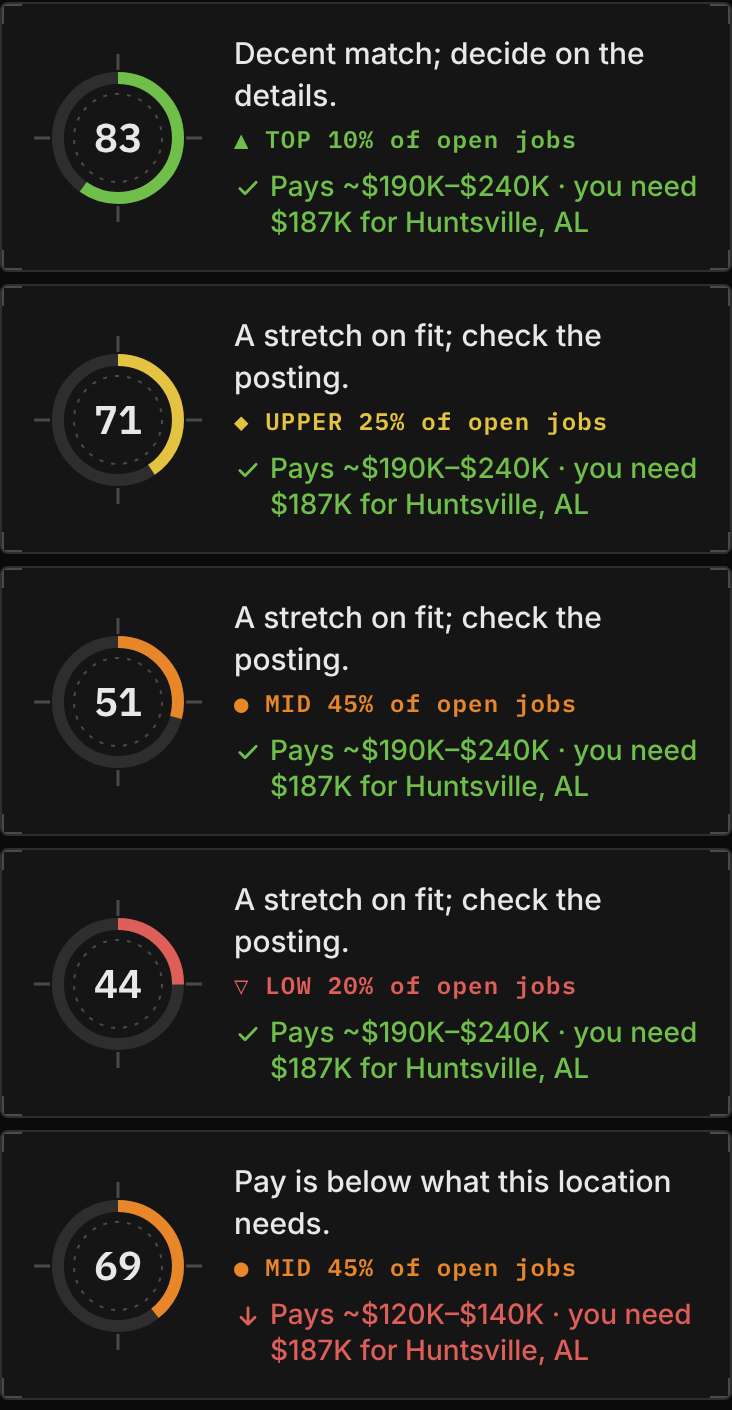
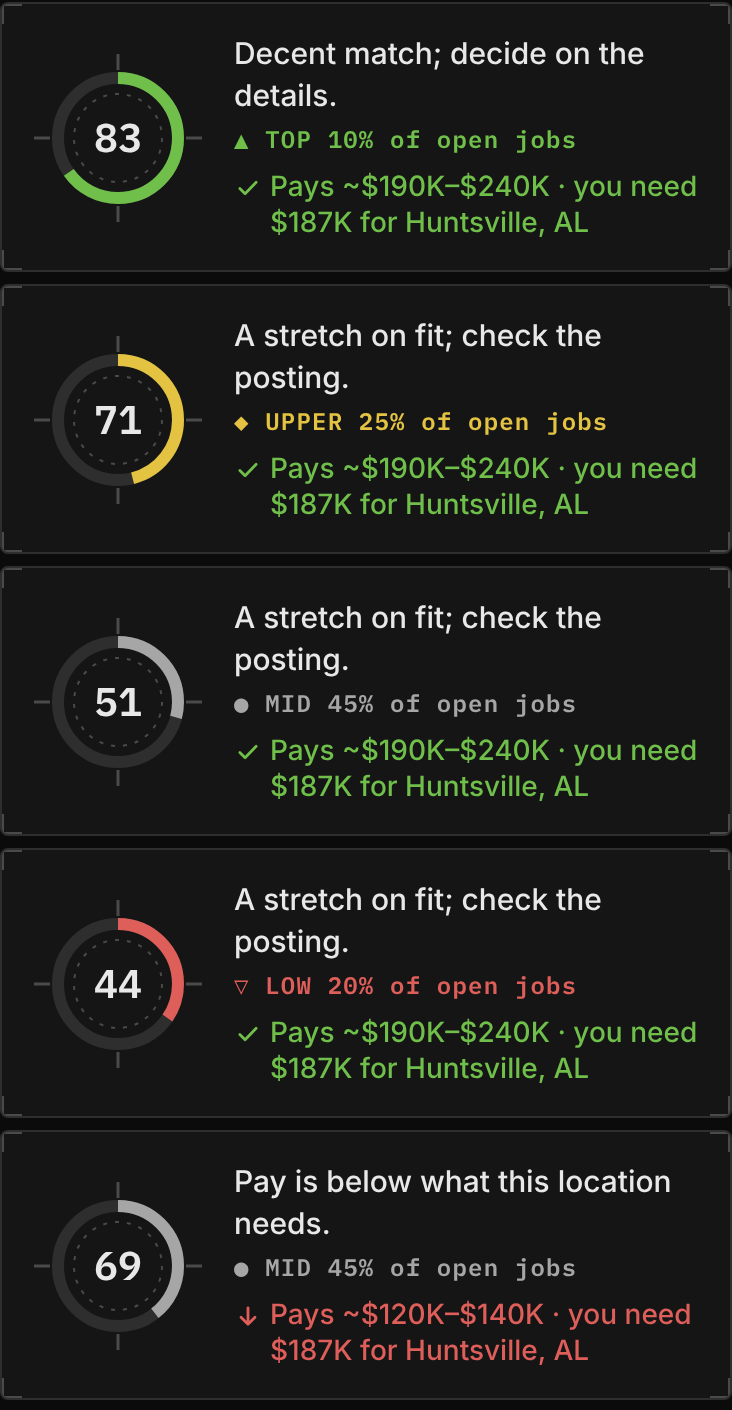
Claude MOBILE-STAGE5-REVIEW-20261102: gray middle band and banded card screenshots
Claude-Session: https://claude.ai/code/session_01UMkZ78jYWNzDpJeLqYKAku

diff --git a/receipts/mobile-redesign-20261102/README.md b/receipts/mobile-redesign-20261102/README.md
@@ -23,11 +23,14 @@ Direct image links: `https://raw.githubusercontent.com/tpruittguitar/forge-coord
 - Strong fit close-up: `stage5-fit-strong-card-390.png` ("✓ Fit 79" in green beside "? — est. pending").
 - Times in these screenshots are the test run's clock in ET.
 
-## Score ring by band (`f54c724`, Tim 2026-11-02)
+## Score colours by band (`f54c724`, then the middle band to gray and banded cards, Tim 2026-11-02)
 - `stage5-ring-bands-390.png`: the detail sheet's verdict block for one job in each band, top to bottom: TOP (green, 83),
-  UPPER (yellow, 71), MID (orange, 51), LOW (red, 44), then a strong-fit job whose pay is below need (orange MID ring, 69,
-  beside the red pay line). Bands are percentiles of the open jobs (pipeline-bands.js), so the same number can sit in different
-  bands as the job list changes. Contrast against the panel: 8.0, 10.6, 6.9, 5.1 : 1.
+  UPPER (yellow, 71), MID (gray, 51), LOW (red, 44), then a strong-fit job whose pay is below need (gray MID ring, 69,
+  beside the red pay line). Contrast against the panel: 8.0, 10.6, 7.5, 5.1 : 1.
+- `stage5-card-bands-390.png`: the same four jobs as Decide cards. The score number is in the band colour with its glyph:
+  ▲ 83 green, ◆ 71 yellow, ● 51 gray, ▽ 44 red.
+- Bands are percentiles of the open jobs (pipeline-bands.js, the same as desktop), so a score's colour can change as the
+  job list changes. Bands are off below 40 open jobs: then the ring is gray and the number plain.
 - `stage5-ring-detail-top-390x844.png`: the full detail sheet for the TOP job.
 
 ## Why some banners show (test data, not live state)
